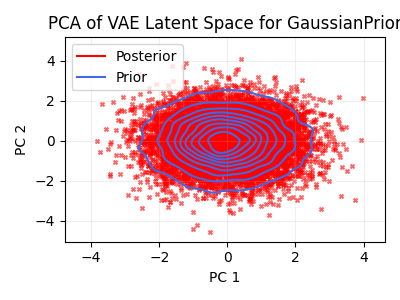
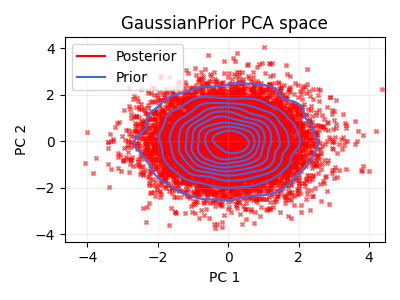
Fix plot title for small figure, and generate again

diff --git a/exercises/vae_bernoulli.py b/exercises/vae_bernoulli.py
@@ -61,7 +61,7 @@ def plot_prior_vs_posterior(model, test_loader, device, save_path):
     prior_proxy = mlines.Line2D([], [], color='royalblue', label='Prior')
     sns.kdeplot(x=prior_2d[:, 0], y=prior_2d[:, 1], alpha=1.0, color='royalblue', label='Prior', legend=True)
 
-    plt.title(f"PCA of VAE Latent Space for {type(model.prior).__name__}")
+    plt.title(f"{type(model.prior).__name__} PCA space")
     plt.xlabel("PC 1")
     plt.ylabel("PC 2")
     plt.grid(alpha=0.2)
